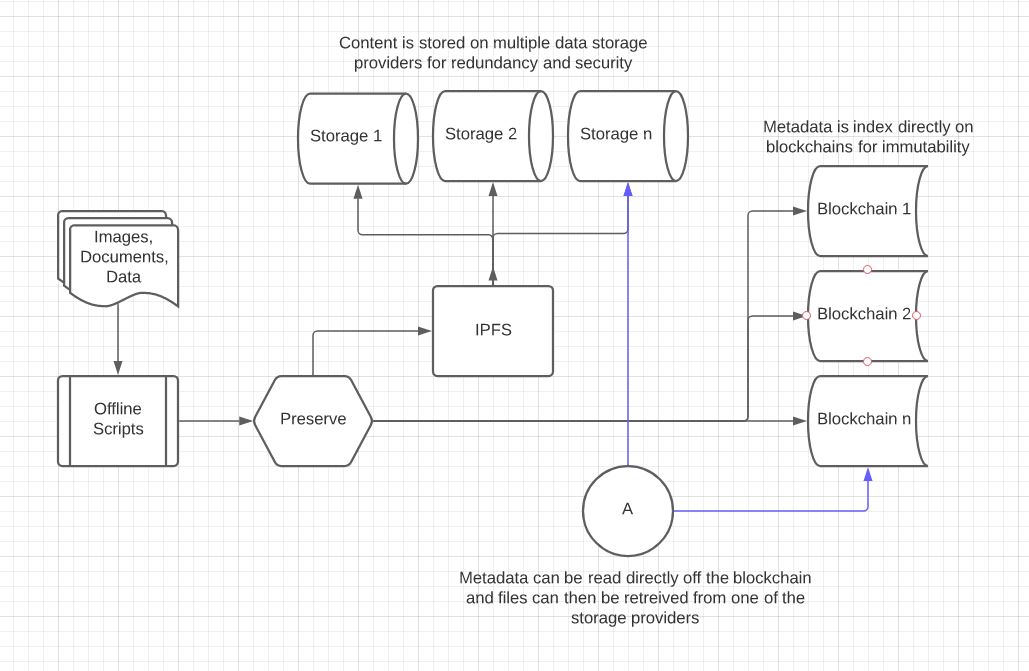
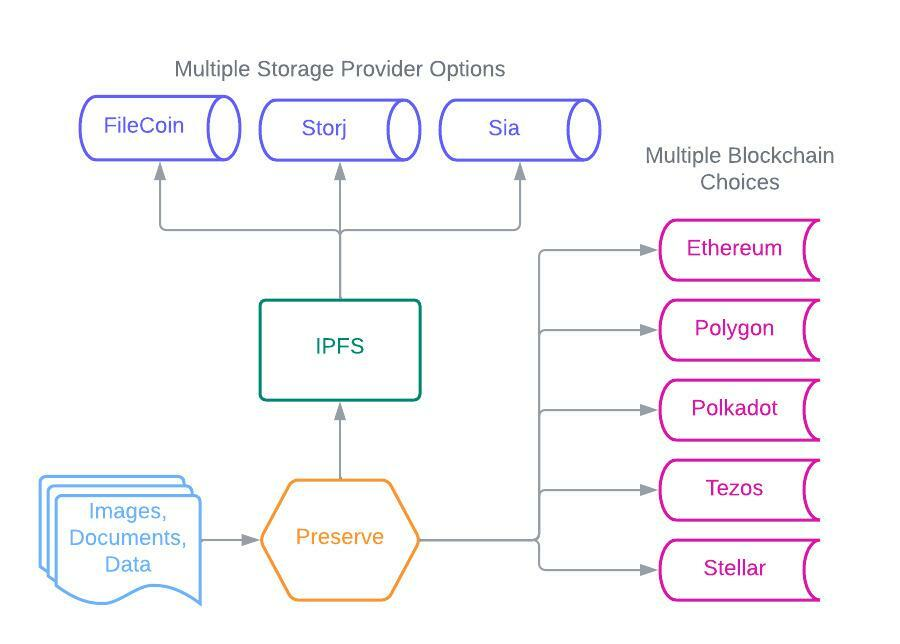
diagram and readme updates

diff --git a/README.md b/README.md
@@ -1,47 +1,135 @@
 # Preserve Framework
 
-A collection of software and services aimed at preserving historically important digital information forever. We accomplish this by using various decentralized storage providers and multiple blockchains to create an immutable persistent network.
+By leveraging web3 and blockchain technology we build servicves to help preserve important digital information, forever.
 
 ![Preserve Framework Diagram](https://github.com/Preserve-Network/Preserve-Framework/blob/main/preserve-diagram.JPG?raw=true)
 
-
 ## Getting Started
-Create an .env file in the root directory
 
-The following keys are required
+This will guide you setting up the preserve smart contracts and the initial setup needed to interact with the various functions in the preserve framework.
 
-- WEB3_STORAGE_KEY=
+### Polygon Network
+
+To store the index files on the polygon blockchain you'll need to first deploy the smart contract.
+
+#### Smart Contract Setup
+
+To deploy the smart contract we'll first need to setup some enviroment variables.
+
+Create an .env file in the root directory and add these four variables.
 
 - POLYGON_TEST_ADDRESS=
 - POLYGON_TEST_KEY=
-- POLYGON_TEST_ALCHEMY_API_KEY=
-- POLYGON_TEST_CONTRACT=
 
 - POLYGON_ADDRESS=
 - POLYGON_KEY=
-- POLYGON_ALCHEMY_API_KEY=
-- POLYGON_CONTRACT=
 
-## Compile Code
+These will correspond to the public addresses and the secret keys for both the test network as well as the mainnet.
+Each address should contain MATIC. If there isn't enough MATIC to complete the transaction the process will fail with an error.
 
+#### Smart Contract Compile & Deploy
+
+From the root directory run
+
+```
 npx hardhat compile
+```
 
-## Deploy Smart Contract
+If you didn't get any errors, deploy the smart contract to the test network first
 
-First make sure the networks and private keys are setup correctly in the hardhat.config.js file.
+```
+npx hardhat run scripts/deploy.js --network mumbai
+```
 
-Run to make sure we pick up any changes in the contract
+If you get an error double check the addresses are correctly setup in the .env file and that the addresses have MATIC.
+If everything works you should get back the address of the deployed contract.
 
-> npx hardhat compile
+Add this to the env file.
 
-Next, deploy the contract making sure you choose the correct network
+> - POLYGON_TEST_CONTRACT=
 
-> npx hardhat run scripts/deploy.js --network mumbai 
+Repeat for mainnet
 
-Copy the contract address the deploy script returns and put that in your .env file.
+```
+npx hardhat run scripts/deploy.js --network mainnet
+```
 
-## Possible use-cases
+And add that contract address to the env file.
 
-- Take screenshots to record history
-- Preserve all tweets or posts from users
-- Preserve government documents, rollcalls, voter records, etc
+> - POLYGON_CONTRACT=
+
+#### Web3 API Setup
+
+We also need a way to communicate with the blockchain. The Preserve framework is currently setup to work with two api gateways, alchemy and infura. Add which ever service you have an api key for in the .env file, or both if you have both. Alchemy has different api keys for each network while infura shares the same key. Both services have a free teir.
+
+- POLYGON_TEST_ALCHEMY_API_KEY=
+- POLYGON_ALCHEMY_API_KEY=
+- POLYGON_INFURA_API_KEY=
+
+#### Web3.storage Setup
+
+Currently the only storage provider we have enabled is web3.storage. You'll need to signup for their free account and add the api key to the env file.
+
+- WEB3_STORAGE_KEY=
+
+## Using the Preserve framework
+
+Once you've successfully added the correct settings we can test everything and start to interact with the preserve framework.
+
+For this test we'll be using the testnet. Please verify that you have MATIC loaded into the testnet address that you setup early. You can find a matic facet by searching google.
+
+Lets first test our connections are setup correctly.
+
+```
+const Preserve = require("./index.js");
+
+(async () => {
+  // This defaults to the mumbai network and will use the contract and addresses you've setup in your env file
+  const preserve = new Preserve();
+  const lastValue = await preserve.getIndexLength();
+  console.log(`Last Value: ${lastValue}`);
+})().catch((e) => {
+  console.log("Error: ", e);
+});
+
+// When running the above code you should see output similar to this but the contract address will be different.
+Using mumbai network, contract 0x31C82CFbB4D3F83995372eF837dc5711191DC4E7
+Promise { <pending> }
+> Last Value: 0
+```
+
+You just read data directly from the preserve contract! Because we haven't stored any data yet the last value is 0 which is what we'd expect. Lets add some data to the index!
+
+Create a file called example-data.txt and put whatever you want in it.
+
+```
+echo "Hello from preserve" > example-data.txt
+```
+
+Now, lets preserve that file!
+
+```
+// This assumes we're in the root directory, if you're not you'll need to adjust the paths.
+
+const Preserve = require("./index.js");
+const { File } = require("web3.storage");
+
+(async () => {
+  const preserve = new Preserve();
+
+  console.log("Preserving file...");
+  const transactionHash = await preserve.preserveFiles({
+    name: "First Preserve",
+    description: "preserving my first file",
+    files: ["example-data.txt"],
+    attributes: {
+      hello: "world",
+    },
+  });
+
+  console.log(`Finished! Transaction Hash: ${transactionHash}`);
+})().catch((e) => {
+  console.log("Error", e);
+});
+
+```
